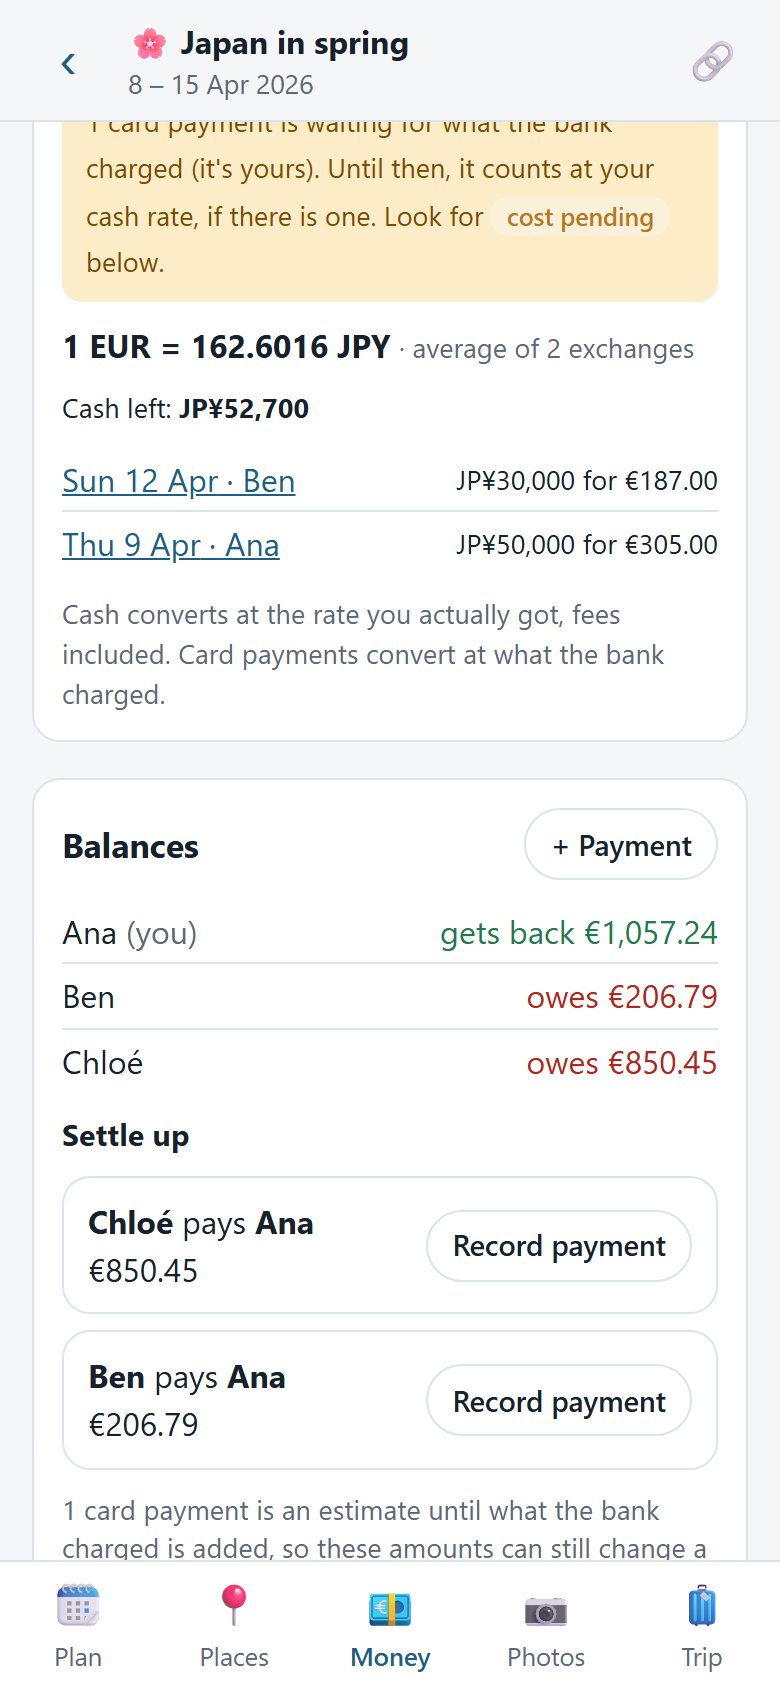
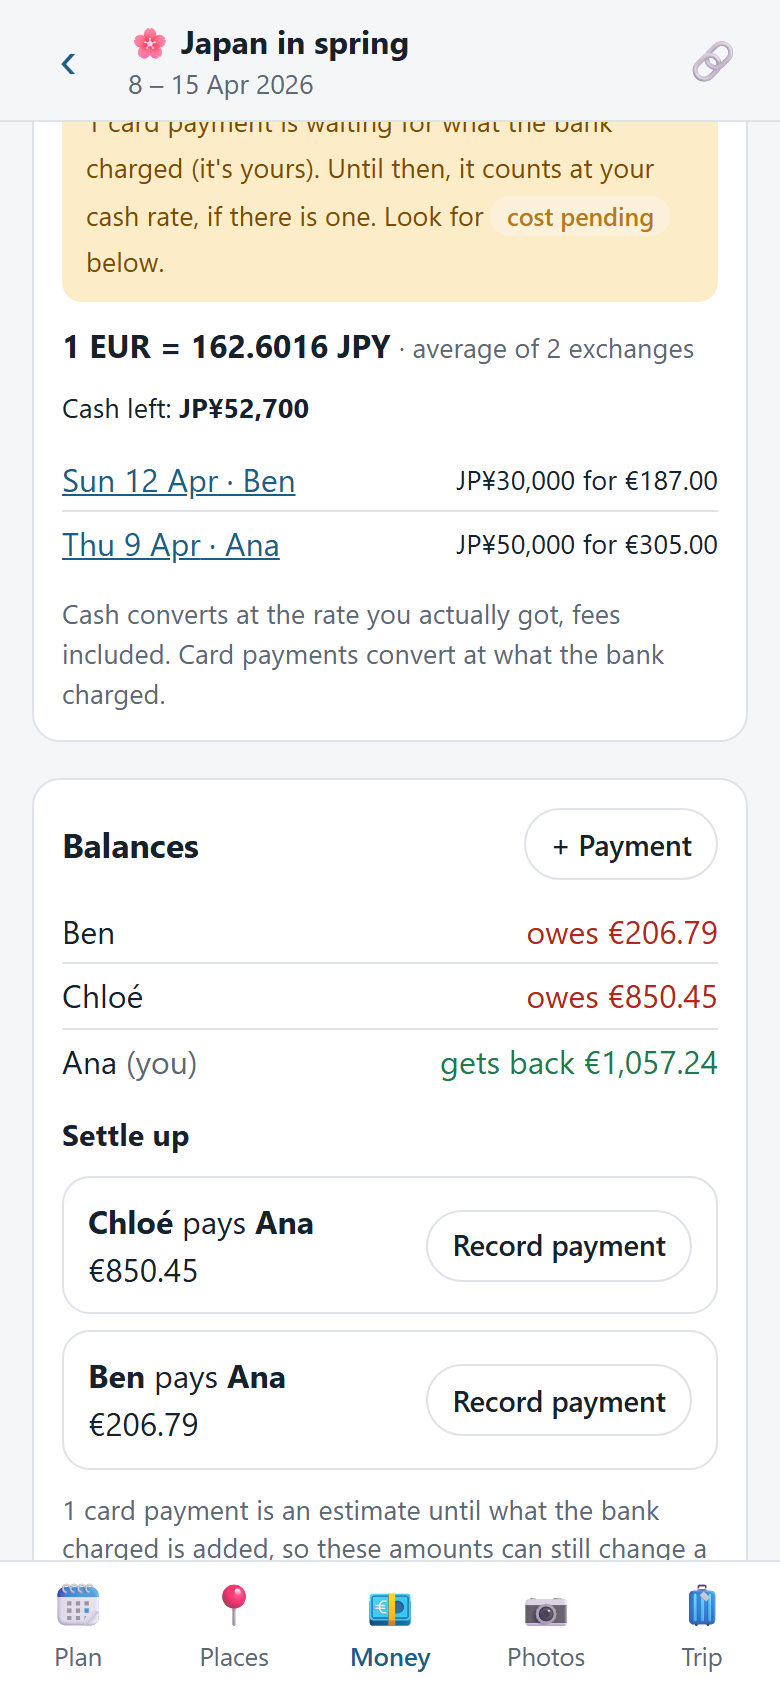
back-arrow: restore unrelated screenshots, spec shipped
money.png and exchanges.png changed only because the demo trip uses
random ids. Spec updated to match what shipped.

Changed region(s): [[0.5538, 0.5237, 0.9231, 0.6469], [0.0615, 0.5237, 0.2462, 0.6469]]

diff --git a/specs/back-arrow.md b/specs/back-arrow.md
@@ -1,6 +1,6 @@
 # Back arrow goes back one screen
 
-Status: building
+Status: shipped (0.9.4)
 Issue: https://github.com/waypoints-pwa/waypoints/issues/40
 Builds after: none
 
@@ -131,9 +131,9 @@ Offline, sync and empty states are unaffected: this only changes navigation.
 4. **Guide text and screenshots**
    - Change: in `GUIDE.md`, at the end of section "## 3. Your first trip", add one paragraph:
      "Inside a trip, **‹** at the top left goes back one screen. On the five tabs at the bottom, it
-     takes you back to your trips." Then run `npm run guide:screenshots` (it builds and serves the
-     app itself; if Chromium is missing, run `npx playwright install chromium` first). Commit only the
-     changed images.
+     takes you back to your trips." Then start `npm run dev` and, with it running, run
+     `npm run guide:screenshots` (it needs the app on localhost:5173; if Chromium is missing, run
+     `npx playwright install chromium` first). Commit only the changed images.
    - Depends on: task 3
    - Done when: `grep -c "goes back one screen" GUIDE.md` prints 1; `grep -c "‹" src/ui/TripLayout.tsx`
      is at least 1; `git diff --name-only HEAD~1 -- docs/guide` (after committing) includes
@@ -193,3 +193,6 @@ Offline, sync and empty states are unaffected: this only changes navigation.
   reuses it rather than a second table.
 - No overlap with other specs: none touch `TripLayout.tsx` or the back links. The smoke test
   (`specs/smoke-test.md`) checks headings and item titles, not back links.
+- As built: the screenshot run also changed `money.png` (Cash €167.89 → €167.90) and `exchanges.png`
+  (Balances rows reordered). `scripts/guide/demo-trip.ts` uses random ids, so record order (and float
+  rounding) varies per run; both were restored from main.
